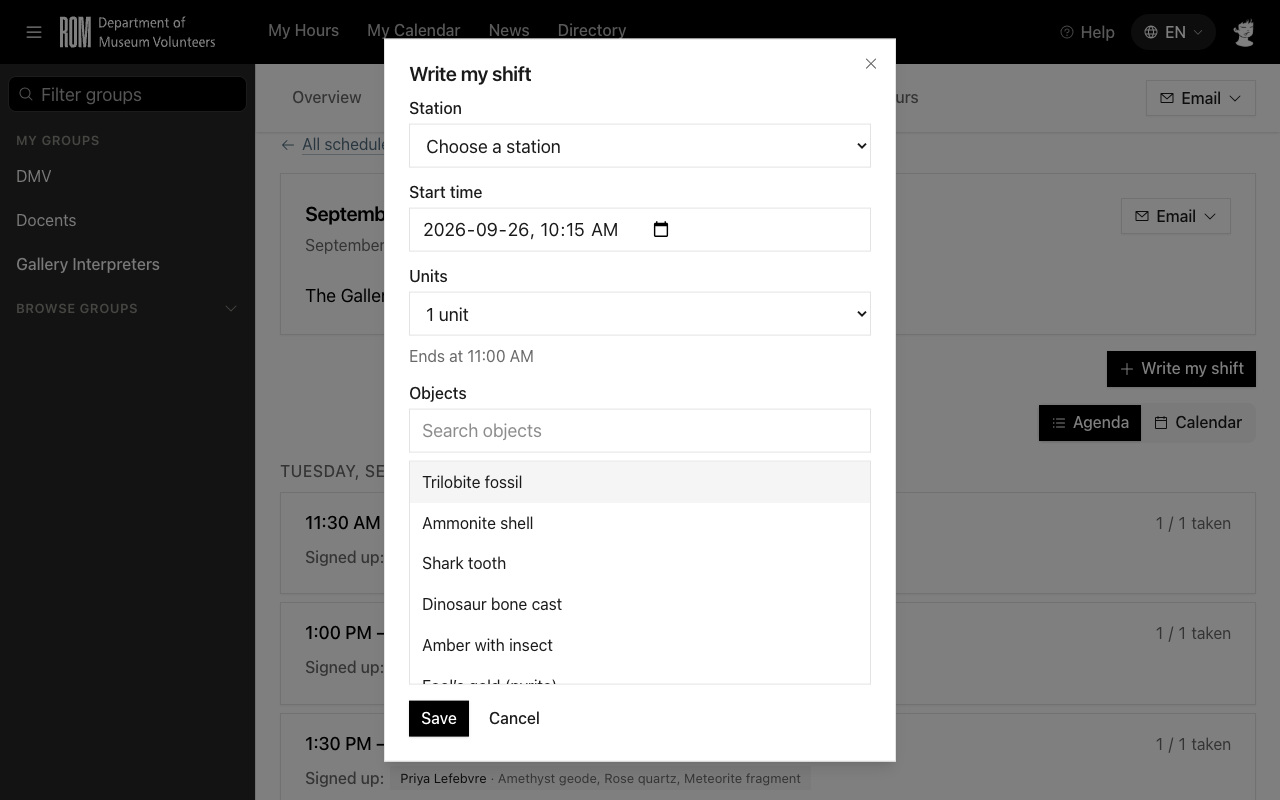
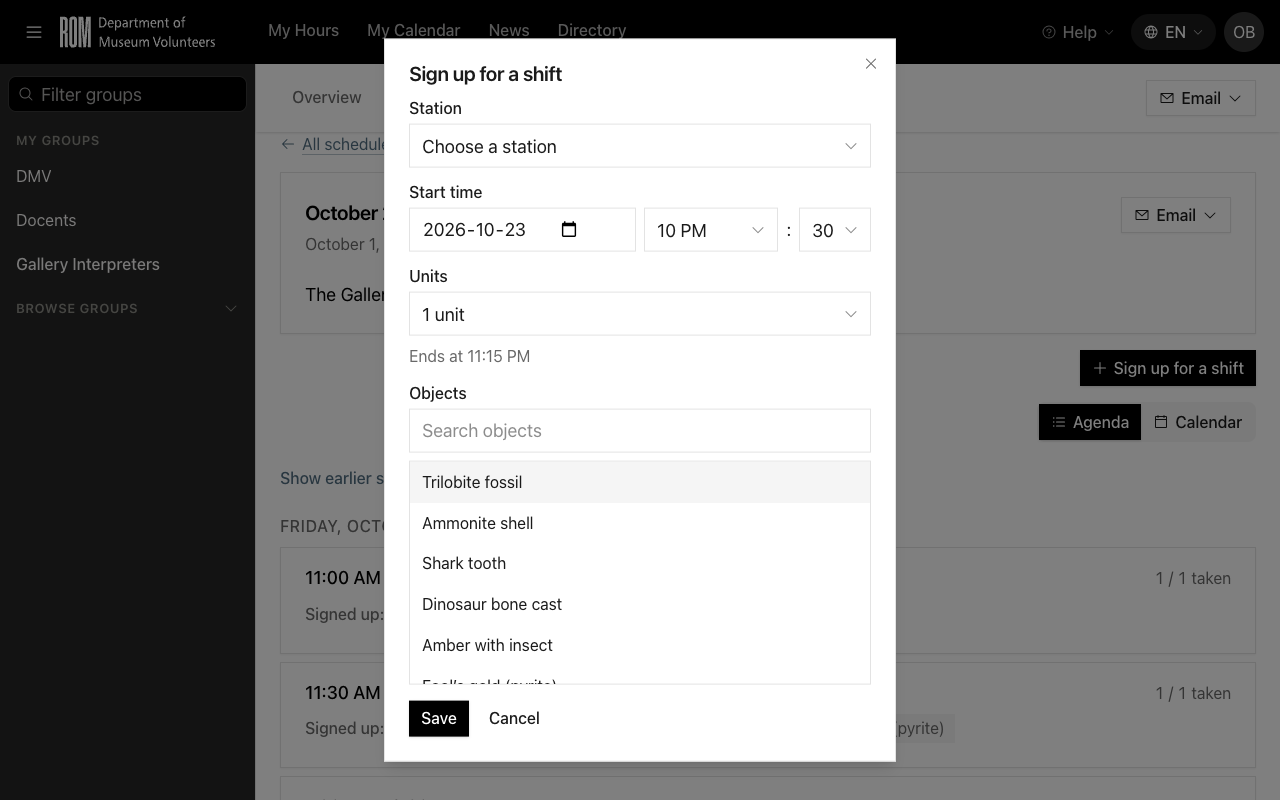
Reword three Scheduling labels from tester feedback (#825)
## Summary

This change rewords three Scheduling labels that testers found unclear.

```diff
 Substitute dialog (Docents group tour)
-  [Hand over seat]          [Céder la place]
+  [Replace me]              [Me faire remplacer]

 Self-serve button + dialog title (Gallery Interpreters)
-  [Write my shift]          [Créer mon quart]
+  [Sign up for a shift]     [M’inscrire à un quart]

 Self-serve dialog, Station left empty
-  The shift kind id field is required.
+  Choose a station.         Choisissez un poste.
```

- `StoreSelfServeShiftRequest` and `UpdateSelfServeShiftRequest`: new
`messages()` for `shift_kind_id.required`. The text comes from
`lang/{en,fr}/group.php`.
- `DemoSeeder`: the GI schedule description now says "Sign up for a
shift below."
- French strings match the meaning only. The DMV French team owns fr-CA
style.

Sources:
- [Feedback item 77](https://staging.dmv-rom.ca/feedback/77) on staging
- [Feedback item 80](https://staging.dmv-rom.ca/feedback/80) on staging
- [Feedback item 81](https://staging.dmv-rom.ca/feedback/81) on staging

### Evidence

```text
it asks for a station when none is chosen, on store and update
  POST  self-serve shift, shift_kind_id = null  → error "Choose a station."
  PATCH self-serve shift, shift_kind_id = null  → error "Choose a station."
before: fails ("The shift kind id field is required.")
after:  passes
```

- Full suite passes (2326). `vue-tsc` passes.
- The reshot `write-your-own-shift/01.png` shows the new button and
[…]

diff --git a/resources/help/screenshot-runner/page-helpers.js b/resources/help/screenshot-runner/page-helpers.js
@@ -450,10 +450,10 @@
         return settle();
     }
 
-    // Open the "Write my shift" dialog a self-serve Group's Member sees on an opened Schedule
+    // Open the "Sign up for a shift" dialog a self-serve Group's Member sees on an opened Schedule
     // (#590, ADR-0026 §1). A plain click handler opens it, so a DOM click is enough.
-    function openWriteMyShiftDialog() {
-        return clickAndSettle(pageButtonLabelled(/^write my shift$/i));
+    function openSelfServeShiftDialog() {
+        return clickAndSettle(pageButtonLabelled(/^sign up for a shift$/i));
     }
 
     // A Shift the signed-in Member wrote for themselves — the Agenda card that carries Edit and
@@ -938,7 +938,7 @@
         showObjects,
         showOffSiteStation,
         chooseOffSiteKind,
-        openWriteMyShiftDialog,
+        openSelfServeShiftDialog,
         showMyWrittenShift,
         showUpcomingPlaceAMember,
         showUpcomingFullShift,

diff --git a/lang/fr/group.php b/lang/fr/group.php
@@ -351,10 +351,10 @@ return [
             'description' => 'Permettre aux membres de créer leurs propres quarts sur les horaires publiés de ce groupe. Chaque quart les inscrit du même coup.',
             'enabled_label' => 'Permettre aux membres de créer leurs propres quarts',
             'unit_minutes_label' => 'Minutes par unité',
-            // Créer mon quart (#585, ADR-0026 §1, §2) — la boîte de dialogue créer / modifier /
+            // M’inscrire à un quart (#585, ADR-0026 §1, §2) — la boîte de dialogue créer / modifier /
             // supprimer côté membre et sa validation, sur un horaire publié d'un groupe en libre-service.
-            'write' => 'Créer mon quart',
-            'create_title' => 'Créer mon quart',
+            'write' => 'M’inscrire à un quart',
+            'create_title' => 'M’inscrire à un quart',
             'edit_title' => 'Modifier mon quart',
             'confirm_delete' => 'Supprimer ce quart ? Cela vous en retire. Cette action est irréversible.',
             'edit' => 'Modifier',
@@ -371,6 +371,7 @@ return [
             'ends_at_preview' => 'Se termine à :time',
             'units_option' => '{1} :count unité|[2,*] :count unités',
             'start_before_today' => 'Choisissez aujourd’hui ou un jour ultérieur.',
+            'kind_required' => 'Choisissez un poste.',
             'tour_kind' => 'Vous ne pouvez pas créer votre propre quart à un poste qui comporte des visites.',
             // L'avertissement de conflit de poste (#588, ADR-0026 §5) — un·e autre interprète est
             // déjà à ce poste à ce moment. Un avertissement, non un blocage : le membre peut passer outre.
@@ -417,7 +418,7 @@ return [
             'field_label' => 'Remplaçant·e',
             'placeholder' => 'Choisissez un membre',
             'none' => 'Personne d’autre ne peut donner cette visite.',
-            'submit' => 'Céder la place',
+            'submit' => 'Me faire remplacer',
             'not_eligible' => 'Ce membre ne peut pas donner cette visite.',
         ],
         // Maintenance des objets (#584, ADR-0026 §3) — la collection à manipuler qu’un·e

diff --git a/tests/Feature/SelfServeShiftTest.php b/tests/Feature/SelfServeShiftTest.php
@@ -253,6 +253,23 @@ it('refuses a station whose kind maps to active Tours, on store and update', fun
     expect($shift->fresh()->shift_kind_id)->toBe($plain->id);
 });
 
+it('asks for a station when none is chosen, on store and update', function () {
+    $group = selfServeGroup();
+    $schedule = juneSchedule($group);
+    $station = stationOf($group);
+    $member = giMemberOf($group);
+    $message = __('group.scheduling_panel.self_serve.kind_required');
+
+    $this->actingAs($member)
+        ->post(route('self-serve-shifts.store', ['schedule' => $schedule->id]), selfServeBody($station, ['shift_kind_id' => null]))
+        ->assertSessionHasErrors(['shift_kind_id' => $message]);
+
+    $shift = ownedShift($schedule, $station, $member);
+    $this->actingAs($member)
+        ->patch(route('self-serve-shifts.update', ['shift' => $shift->id]), selfServeBody($station, ['shift_kind_id' => null]))
+        ->assertSessionHasErrors(['shift_kind_id' => $message]);
+});
+
 // --- store: the authorization floors ------------------------------------------
 
 it('refuses a store on a draft schedule', function () {
@@ -749,7 +766,7 @@ it('never warns when a Scheduler places a Member on the station', function () {
 
 // --- Inertia hints: the button and the owner’s controls -----------------------
 
-it('offers Write my shift to a self-serve GI member', function () {
+it('offers Sign up for a shift to a self-serve GI member', function () {
     $group = selfServeGroup();
     $schedule = juneSchedule($group);
     $member = giMemberOf($group);
@@ -759,7 +776,7 @@ it('offers Write my shift to a self-serve GI member', function () {
         ->assertInertia(fn (Assert $page) => $page->where('scheduling.open.can.createSelfServe', true));
 });
 
-it('offers no Write my shift button on a Group that is not self-serve', function () {
+it('offers no Sign up for a shift button on a Group that is not self-serve', function () {
     $group = selfServeGroup(['self_serve_shifts' => false]);
     $schedule = juneSchedule($group);
     $member = giMemberOf($group);

diff --git a/lang/en/group.php b/lang/en/group.php
@@ -373,10 +373,10 @@ return [
             'description' => 'Let members write their own shifts on this group\'s published schedules. Each shift signs them up in the same step.',
             'enabled_label' => 'Let members write their own shifts',
             'unit_minutes_label' => 'Minutes per unit',
-            // Write my shift (#585, ADR-0026 §1, §2) — the member-facing create / edit / delete
+            // Sign up for a shift (#585, ADR-0026 §1, §2) — the member-facing create / edit / delete
             // dialog and its validation, on a published schedule of a self-serve group.
-            'write' => 'Write my shift',
-            'create_title' => 'Write my shift',
+            'write' => 'Sign up for a shift',
+            'create_title' => 'Sign up for a shift',
             'edit_title' => 'Edit my shift',
             'confirm_delete' => 'Delete this shift? This removes you from it. You cannot undo this.',
             'edit' => 'Edit',
@@ -393,6 +393,7 @@ return [
             'ends_at_preview' => 'Ends at :time',
             'units_option' => '{1} :count unit|[2,*] :count units',
             'start_before_today' => 'Choose today or a later day.',
+            'kind_required' => 'Choose a station.',
             // A station whose kind maps to Tours (ADR-0033 §2) — those Shifts are the Scheduler's.
             'tour_kind' => 'You cannot write your own shift on a station that has tours.',
             // The station clash warning (#588, ADR-0026 §5) — another interpreter is already on this
@@ -439,7 +440,7 @@ return [
             'field_label' => 'Substitute',
             'placeholder' => 'Choose a member',
             'none' => 'No one else can take this tour.',
-            'submit' => 'Hand over seat',
+            'submit' => 'Replace me',
             'not_eligible' => 'This member cannot take this tour.',
         ],
         // Objects maintenance (#584, ADR-0026 §3) — the handling collection a Gallery

diff --git a/app/Http/Requests/UpdateSelfServeShiftRequest.php b/app/Http/Requests/UpdateSelfServeShiftRequest.php
@@ -78,6 +78,16 @@ class UpdateSelfServeShiftRequest extends FormRequest
     }
 
     /**
+     * @return array<string, string>
+     */
+    public function messages(): array
+    {
+        return [
+            'shift_kind_id.required' => trans('group.scheduling_panel.self_serve.kind_required'),
+        ];
+    }
+
+    /**
      * The two overlap checks (ADR-0026 §3, §5): the Object double-booking block and the station
      * clash warning, both on this Shift's *new* derived interval and kind. The actor's own seat is
      * excluded from the Object block, and the Shift itself from the station warning — keeping the

diff --git a/app/Http/Requests/StoreSelfServeShiftRequest.php b/app/Http/Requests/StoreSelfServeShiftRequest.php
@@ -86,6 +86,16 @@ class StoreSelfServeShiftRequest extends FormRequest
     }
 
     /**
+     * @return array<string, string>
+     */
+    public function messages(): array
+    {
+        return [
+            'shift_kind_id.required' => trans('group.scheduling_panel.self_serve.kind_required'),
+        ];
+    }
+
+    /**
      * The two overlap checks (ADR-0026 §3, §5): the Object double-booking block, and the station
      * clash warning. The candidate is the Shift this store will write — its derived interval and
      * chosen kind — so both match what will be stored. No Sign-up or Shift is excluded: a store

diff --git a/database/seeders/DemoSeeder.php b/database/seeders/DemoSeeder.php
@@ -1575,7 +1575,7 @@ class DemoSeeder extends Seeder
                 $start,
                 $start->lessThan($month)
                     ? 'Last month\'s Gallery Interpreters roster, worked and signed out.'
-                    : 'The Gallery Interpreters roster. Write your own shift below.',
+                    : 'The Gallery Interpreters roster. Sign up for a shift below.',
             );
 
             $this->writeShifts($schedule, $start, $this->galleryInterpreterSpecs($start), $kinds);

diff --git a/resources/help/fr/write-your-own-shift.md b/resources/help/fr/write-your-own-shift.md
@@ -7,7 +7,7 @@ Créez un quart pour vous-même quand votre groupe permet aux membres de gérer 
 1. Ouvrez votre groupe depuis la barre latérale.
 2. Sélectionnez l'onglet **Horaire**.
 3. Ouvrez un horaire publié.
-4. Sélectionnez **Créer mon quart**.
+4. Sélectionnez **M’inscrire à un quart**.
 
     > **Note :** Le bouton s'affiche seulement si votre groupe est en libre-service. Demandez à un·e Responsable horaire si vous ne le voyez pas.
 
@@ -17,7 +17,7 @@ Créez un quart pour vous-même quand votre groupe permet aux membres de gérer 
 8. Ajoutez un ou plusieurs **Objets** si votre groupe en remet.
 9. Sélectionnez **Enregistrer**.
 
-    ![La fenêtre Créer mon quart : Poste, Heure de début, Unités, Objets, Enregistrer et Annuler](01.png)
+    ![La fenêtre M’inscrire à un quart : Poste, Heure de début, Unités, Objets, Enregistrer et Annuler](01.png)
 
 Votre quart rejoint l'horaire avec votre nom.
 

diff --git a/resources/help/en/write-your-own-shift.md b/resources/help/en/write-your-own-shift.md
@@ -7,7 +7,7 @@ Write a shift for yourself when your Group lets its Members schedule their own. 
 1. Open your Group from the Left Side Bar.
 2. Select the **Scheduling** tab.
 3. Open a published Schedule.
-4. Select **Write my shift**.
+4. Select **Sign up for a shift**.
 
     > **Note:** The button shows only when your Group is self-serve. Ask a Scheduler if you do not see it.
 
@@ -17,7 +17,7 @@ Write a shift for yourself when your Group lets its Members schedule their own. 
 8. Add one or more **Objects** if your Group hands them out.
 9. Select **Save**.
 
-    ![The Write my shift dialog: Station, Start time, Units, Objects, Save, and Cancel](01.png)
+    ![The Sign up for a shift dialog: Station, Start time, Units, Objects, Save, and Cancel](01.png)
 
 Your shift joins the Schedule with your name on it.
 

diff --git a/resources/help/fr/sign-up-for-a-group-tour.md b/resources/help/fr/sign-up-for-a-group-tour.md
@@ -20,7 +20,7 @@ Vous ne pouvez pas vous désister d’une visite de groupe. Un client compte sur
 1. Trouvez la visite de groupe qui porte votre nom.
 2. Sélectionnez **Se faire remplacer**.
 3. Choisissez un membre dans la liste. La liste montre seulement les membres qui peuvent donner cette visite et qui n’y sont pas encore.
-4. Sélectionnez **Céder la place**.
+4. Sélectionnez **Me faire remplacer**.
 
 Votre place passe à ce membre. Vous, votre remplaçant·e et les responsables des réservations de votre groupe recevez chacun·e un courriel.
 

diff --git a/resources/help/en/sign-up-for-a-group-tour.md b/resources/help/en/sign-up-for-a-group-tour.md
@@ -20,7 +20,7 @@ You cannot drop a seat on a group tour. A client is counting on it, so you hand 
 1. Find the group tour with your name on it.
 2. Select **Substitute**.
 3. Pick a member from the list. The list shows only members who can give this tour and are not on it yet.
-4. Select **Hand over seat**.
+4. Select **Replace me**.
 
 Your seat goes to that member. You, your substitute and your Group's Bookers each get an email.
 
